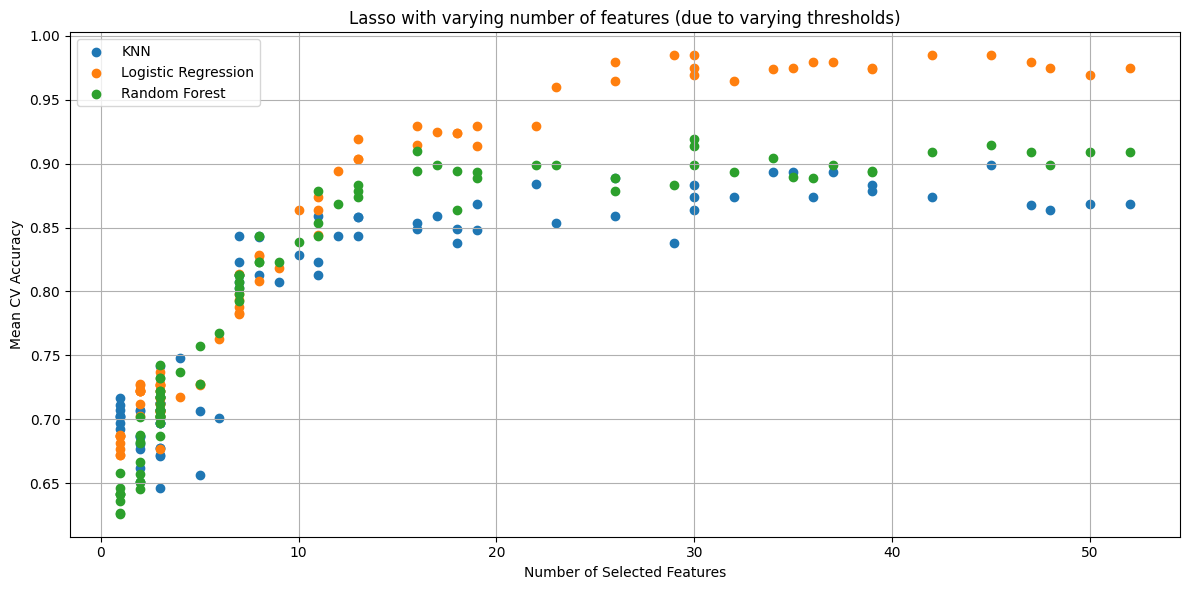
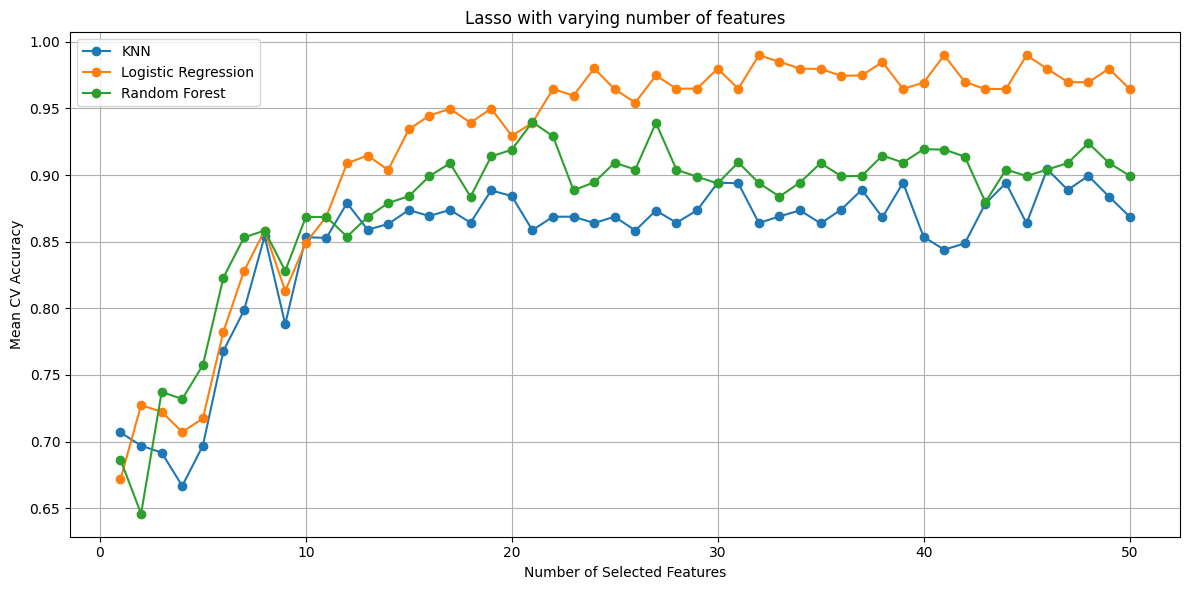
Fixed Lasso bilder

diff --git a/Project 2/Hedvig_Tweak.py b/Project 2/Hedvig_Tweak.py
@@ -64,7 +64,7 @@ def plot_overlay(use_catdog, X, y, selected_masks):
     plt.show()
 
 #%% Select Dataset
-use_catdog = False  # Set to False to use Numbers.txt
+use_catdog = True  # Set to False to use Numbers.txt
 
 if use_catdog:
     X = load_and_preprocess_data("catdogdata.txt")
@@ -127,7 +127,7 @@ models = {
 #else:
 #    threshholds = np.flip(np.arange(0.09, 0.5, 0.01))
 
-max_features = 10
+max_features = 20
 
 with_filter = False
 cv = StratifiedKFold(n_splits=5, shuffle=True)
@@ -184,7 +184,7 @@ for i, (model_name, model) in enumerate(models.items()):
     plt.plot(results[:,i,1], results[:,i,0], marker='o', label=model_name)
 plt.xlabel("Number of Selected Features")
 plt.ylabel("Mean CV Accuracy")
-plt.title("Lasso with varying number of features (due to varying thresholds)")
+plt.title("Lasso with varying number of features")
 plt.legend()
 plt.grid(True)
 plt.tight_layout()
